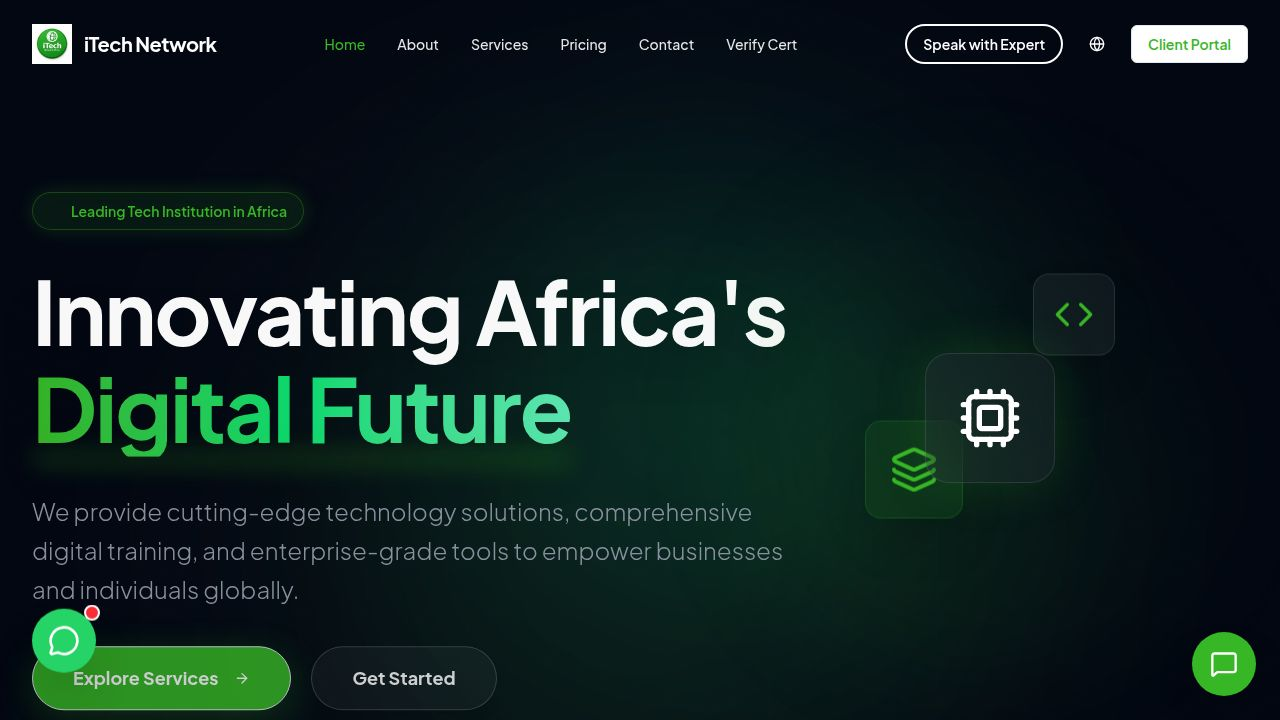
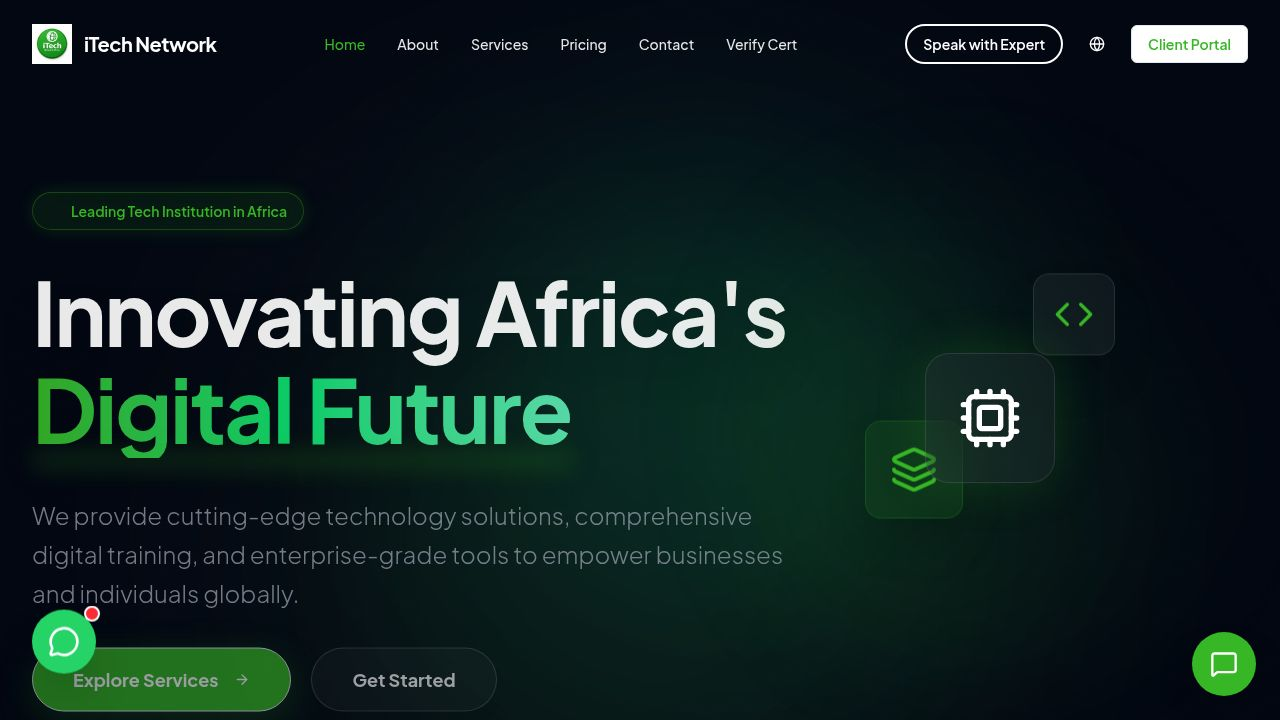
Update pricing page with tailored packages and flexible pricing options
Refactors the Pricing page to display four distinct service packages (NGO, Business, High School, University) with flexible pricing, core features, and optional add-ons, incorporating the Plus icon and updating existing package details.

Replit-Commit-Author: Agent
Replit-Commit-Session-Id: 602d11e3-773b-42a9-8c13-3dadfd2513be
Replit-Commit-Checkpoint-Type: full_checkpoint
Replit-Commit-Event-Id: 39373503-52ed-4000-9b2f-48b6c5b17497
Replit-Commit-Screenshot-Url: https://storage.googleapis.com/screenshot-production-us-central1/5777a2e9-1ee6-40d5-94f6-9747b1f5feef/602d11e3-773b-42a9-8c13-3dadfd2513be/xLF0jCr
Replit-Helium-Checkpoint-Created: true

diff --git a/client/src/pages/public/Pricing.tsx b/client/src/pages/public/Pricing.tsx
@@ -1,5 +1,5 @@
 import { Button } from "@/components/ui/button";
-import { Check, Star } from "lucide-react";
+import { Check, Star, Plus } from "lucide-react";
 import PublicNavbar from "@/components/public/PublicNavbar";
 import Footer from "@/components/public/Footer";
 import { Badge } from "@/components/ui/badge";
@@ -8,67 +8,96 @@ import { Link } from "wouter";
 export default function Pricing() {
   const plans = [
     {
-      name: "Free",
-      price: "$0",
-      description: "Essential tools for small projects and individuals.",
+      name: "NGO Digital Package",
+      price: "Flexible",
+      description: "Complete digital transformation for NGOs to improve visibility and impact.",
       features: [
-        "Access to basic dashboard",
-        "1 Active Project",
-        "Weekly automated report (Lite)",
-        "Community Support",
-        "1 GB Storage"
+        "Professional NGO Website",
+        "Official Email Setup",
+        "NGO Branding & Identity",
+        "Social Media Management",
+        "Online Donation Forms",
+        "Project & Event Flyers",
+        "Digital Data Systems",
+        "Basic ICT Training"
+      ],
+      addons: [
+        "Mobile App Development",
+        "Cloud Management Systems",
+        "POS & Financial Tracking",
+        "AI Reporting Tools"
       ],
       cta: "Get Started",
       popular: false,
       color: "border-gray-200"
     },
     {
-      name: "Pro",
-      price: "$29",
-      period: "/month",
-      description: "Perfect for freelancers and growing startups.",
+      name: "Business Digital Package",
+      price: "Flexible",
+      description: "Solutions designed to help businesses grow, operate efficiently, and increase sales.",
       features: [
-        "Everything in Free",
-        "5 Active Projects",
-        "Full detailed reports",
-        "Email & Chat Support",
-        "Integrations (Jira, Trello)",
-        "10 GB Storage"
+        "Professional Business Website",
+        "Business Email & Branding",
+        "E-commerce / Online Store",
+        "Digital POS System",
+        "Customer Management System",
+        "Marketing & Flyer Designs",
+        "Social Media Setup",
+        "Basic ICT Training"
       ],
-      cta: "Get Started",
-      popular: false,
-      color: "border-brand-green"
-    },
-    {
-      name: "Pro +",
-      price: "$79",
-      period: "/month",
-      description: "Advanced features for scaling teams and agencies.",
-      features: [
-        "Everything in Pro",
-        "Unlimited Projects",
-        "White-label Reports",
-        "Priority 24/7 Support",
-        "Advanced Analytics",
-        "Custom Integrations",
-        "100 GB Storage"
+      addons: [
+        "Business Mobile App",
+        "Advanced POS Reporting",
+        "Cloud Management System",
+        "Online Payment Integration"
       ],
       cta: "Get Started",
       popular: true,
       color: "border-brand-green"
     },
     {
-      name: "Advance Pro +",
-      price: "Custom",
-      description: "Enterprise-grade solutions for large organizations.",
+      name: "High School Digital Package",
+      price: "Flexible",
+      description: "Improve administration, learning systems, communication, and overall school management.",
       features: [
-        "Everything in Pro +",
-        "Dedicated Account Manager",
-        "On-premise Deployment",
-        "SLA Guarantees",
-        "Custom AI Model Training",
-        "Audit Logs & Compliance",
-        "Unlimited Storage"
+        "School Website Development",
+        "Student Registration System",
+        "Online Result Management",
+        "School Portal (Student/Staff/Parent)",
+        "Digital Attendance System",
+        "Exam & Grade Management",
+        "School Branding & Social Media",
+        "ICT Training for Teachers"
+      ],
+      addons: [
+        "School Communication App",
+        "E-learning Platform",
+        "SMS Notification System",
+        "Advanced Database System"
+      ],
+      cta: "Get Started",
+      popular: false,
+      color: "border-emerald-500"
+    },
+    {
+      name: "University Digital Package",
+      price: "Flexible",
+      description: "Advanced solutions for academic management, student services, and institutional efficiency.",
+      features: [
+        "University Website Development",
+        "Admission & Application System",
+        "Student & Staff Portals",
+        "Course Registration & LMS",
+        "Digital Exam & Result System",
+        "Admin Data Dashboard",
+        "Notices & Events Management",
+        "ICT Training for Staff"
+      ],
+      addons: [
+        "Campus Mobile App",
+        "Tuition Payment Integration",
+        "SMS/Email Notification System",
+        "Virtual Classroom Setup"
       ],
       cta: "Get Started",
       popular: false,
@@ -134,7 +163,7 @@ export default function Pricing() {
                     </Button>
                   </Link>
 
-                  <div className="space-y-5 border-t border-gray-100 pt-8">
+                  <div className="space-y-4 border-t border-gray-100 pt-8">
                     <p className="text-xs font-bold text-gray-400 uppercase tracking-[0.15em]">Core Features</p>
                     {plan.features.map((feature, idx) => (
                       <div key={idx} className="flex items-start gap-4">
@@ -144,6 +173,20 @@ export default function Pricing() {
                         <span className="text-sm font-medium text-gray-600">{feature}</span>
                       </div>
                     ))}
+                    
+                    {plan.addons && plan.addons.length > 0 && (
+                      <>
+                        <p className="text-xs font-bold text-gray-400 uppercase tracking-[0.15em] pt-4">Optional Add-ons</p>
+                        {plan.addons.map((addon, idx) => (
+                          <div key={idx} className="flex items-start gap-4">
+                            <div className="mt-0.5 rounded-full p-1 shrink-0 bg-blue-50 text-blue-500">
+                              <Plus className="w-3 h-3" strokeWidth={3} />
+                            </div>
+                            <span className="text-sm font-medium text-gray-600">{addon}</span>
+                          </div>
+                        ))}
+                      </>
+                    )}
                   </div>
                 </div>
               </div>